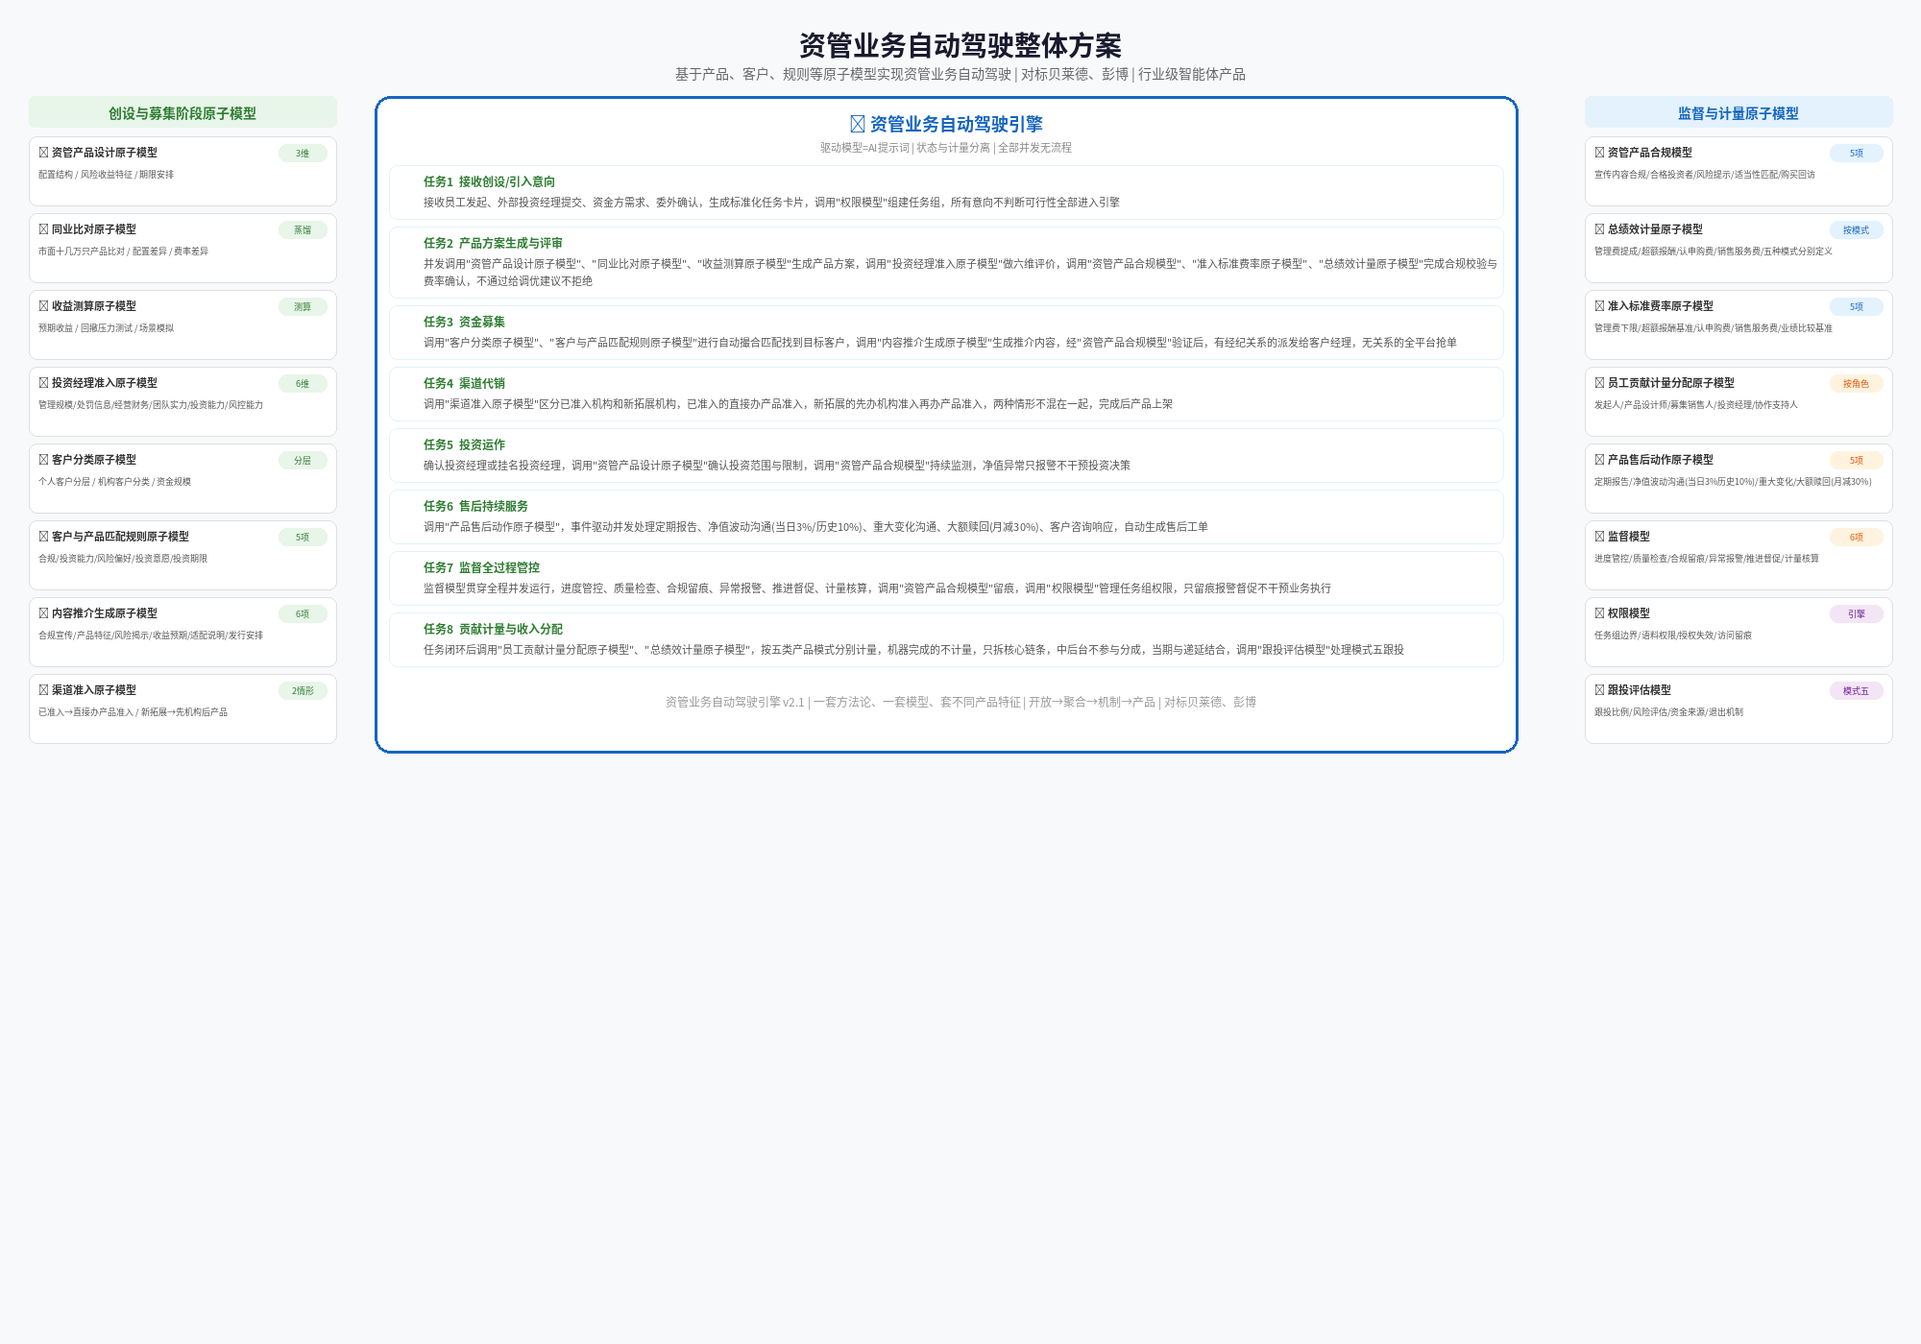
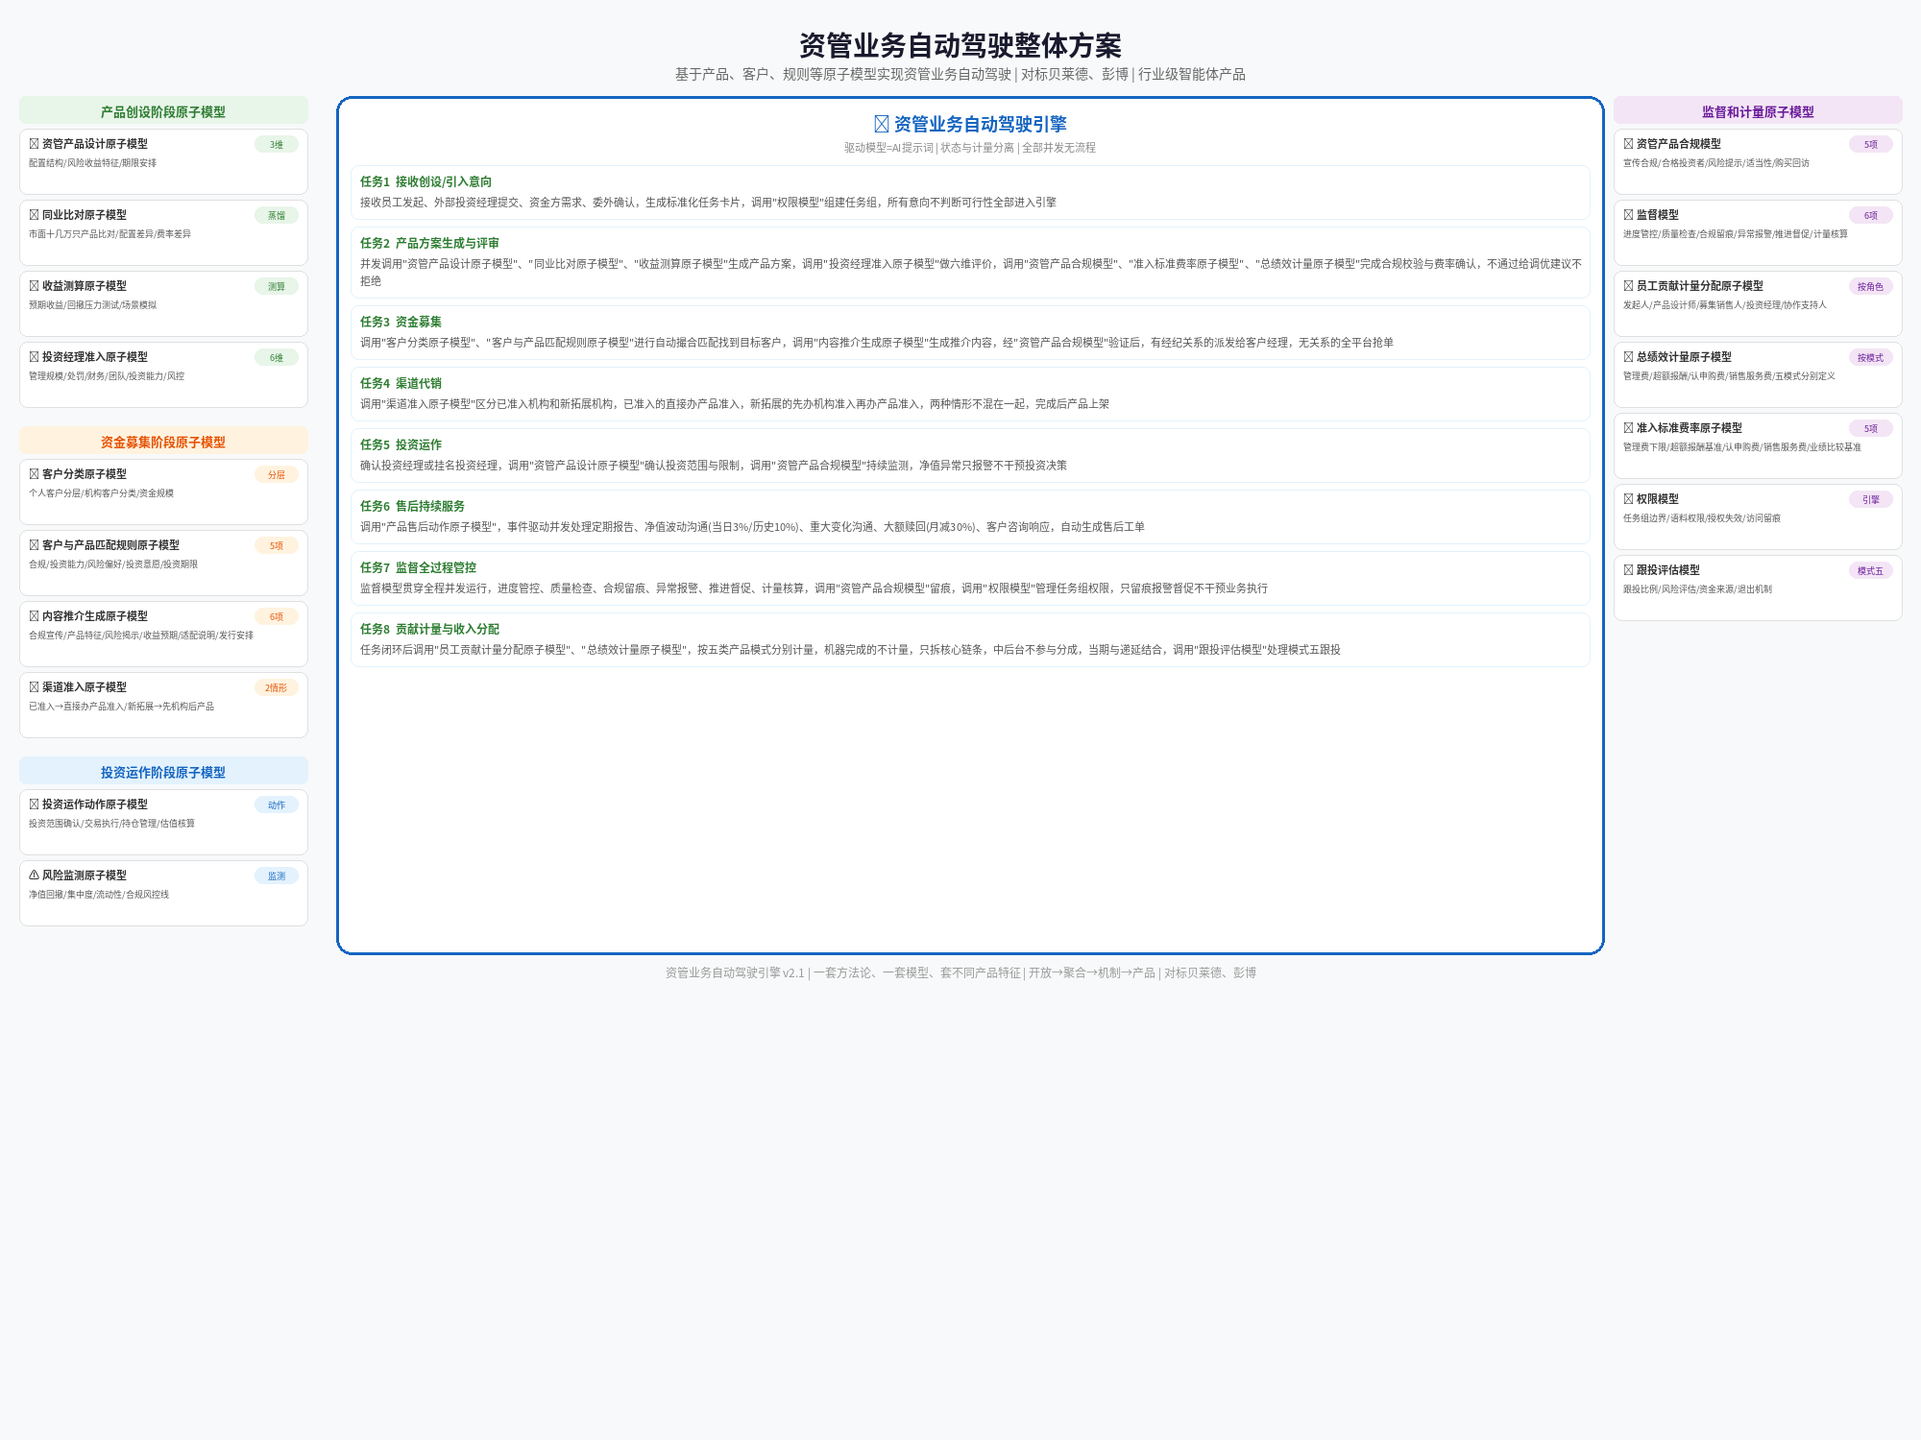
更新：资管方案架构图 - 左右原子模型按四大类分块（产品创设/资金募集/投资运作/监督计量）

diff --git a/diagrams/generate_asset_mgmt_diagram.py b/diagrams/generate_asset_mgmt_diagram.py
@@ -1,10 +1,10 @@
 #!/usr/bin/env python3
-"""生成资管业务自动驾驶整体方案图 v2 - 参考零售表达方式"""
+"""生成资管业务自动驾驶整体方案图 v3 - 按四大类分块"""
 
 from PIL import Image, ImageDraw, ImageFont
 import os
 
-W, H = 2000, 1400
+W, H = 2000, 1500
 img = Image.new('RGB', (W, H), '#f8f9fa')
 draw = ImageDraw.Draw(img)
 
@@ -28,10 +28,10 @@ COLORS = {
     'engine_bg': '#ffffff',
     'task_bg': '#ffffff',
     'task_border': '#e3f2fd',
-    'left_header_bg': '#e8f5e9',
-    'left_header_text': '#2e7d32',
-    'right_header_bg': '#e3f2fd',
-    'right_header_text': '#1565c0',
+    'sec1_bg': '#e8f5e9', 'sec1_text': '#2e7d32',
+    'sec2_bg': '#fff3e0', 'sec2_text': '#e65100',
+    'sec3_bg': '#e3f2fd', 'sec3_text': '#1565c0',
+    'sec4_bg': '#f3e5f5', 'sec4_text': '#6a1b9a',
     'model_bg': '#ffffff',
     'model_border': '#e0e0e0',
     'text_dark': '#333333',
@@ -40,7 +40,12 @@ COLORS = {
     'footer': '#999999',
 }
 
-CONN_COLORS = ['#2e7d32', '#1565c0', '#e65100', '#6a1b9a', '#c62828', '#00695c', '#283593', '#4e342e']
+SEC_STYLES = {
+    'sec1': ('#e8f5e9', '#2e7d32'),
+    'sec2': ('#fff3e0', '#e65100'),
+    'sec3': ('#e3f2fd', '#1565c0'),
+    'sec4': ('#f3e5f5', '#6a1b9a'),
+}
 
 def draw_rounded_rect(d, xy, radius, fill, outline=None, width=1):
     d.rounded_rectangle(xy, radius=radius, fill=fill, outline=outline, width=width)
@@ -54,7 +59,6 @@ def draw_text_left(d, x, y, text, font, fill):
     d.text((x, y), text, font=font, fill=fill)
 
 def wrap_text_by_width(draw, text, font, max_width):
-    """按像素宽度换行"""
     lines = []
     current = ''
     for char in text:
@@ -76,136 +80,130 @@ draw_text_centered(draw, W/2, 25, '资管业务自动驾驶整体方案', title_
 draw_text_centered(draw, W/2, 65, '基于产品、客户、规则等原子模型实现资管业务自动驾驶 | 对标贝莱德、彭博 | 行业级智能体产品', subtitle_font, COLORS['subtitle'])
 
 # ==================== 布局 ====================
-LEFT_X = 30
-LEFT_W = 320
-RIGHT_X = W - 30 - 320
-RIGHT_W = 320
-ENGINE_X = LEFT_X + LEFT_W + 40
-ENGINE_W = W - ENGINE_X - RIGHT_W - 100
+LEFT_X = 20
+LEFT_W = 300
+RIGHT_X = W - 20 - 300
+RIGHT_W = 300
+ENGINE_X = LEFT_X + LEFT_W + 30
+ENGINE_W = W - ENGINE_X - RIGHT_W - 30
 ENGINE_Y = 100
 
-# ==================== 左侧原子模型 ====================
-left_models = [
-    ('📐 资管产品设计原子模型', '3维', '配置结构 / 风险收益特征 / 期限安排', 'green'),
-    ('📊 同业比对原子模型', '蒸馏', '市面十几万只产品比对 / 配置差异 / 费率差异', 'green'),
-    ('🧮 收益测算原子模型', '测算', '预期收益 / 回撤压力测试 / 场景模拟', 'green'),
-    ('👤 投资经理准入原子模型', '6维', '管理规模/处罚信息/经营财务/团队实力/投资能力/风控能力', 'green'),
-    ('👥 客户分类原子模型', '分层', '个人客户分层 / 机构客户分类 / 资金规模', 'green'),
-    ('🎯 客户与产品匹配规则原子模型', '5项', '合规/投资能力/风险偏好/投资意愿/投资期限', 'green'),
-    ('📝 内容推介生成原子模型', '6项', '合规宣传/产品特征/风险揭示/收益预期/适配说明/发行安排', 'green'),
-    ('🏦 渠道准入原子模型', '2情形', '已准入→直接办产品准入 / 新拓展→先机构后产品', 'green'),
+# ==================== 四大类原子模型定义 ====================
+# 左侧：产品创设阶段 + 资金募集阶段（整合渠道代销）+ 投资运作阶段
+# 右侧：监督和计量
+
+sections_left = [
+    {
+        'title': '产品创设阶段原子模型',
+        'sec': 'sec1',
+        'models': [
+            ('📐 资管产品设计原子模型', '3维', '配置结构/风险收益特征/期限安排'),
+            ('📊 同业比对原子模型', '蒸馏', '市面十几万只产品比对/配置差异/费率差异'),
+            ('🧮 收益测算原子模型', '测算', '预期收益/回撤压力测试/场景模拟'),
+            ('👤 投资经理准入原子模型', '6维', '管理规模/处罚/财务/团队/投资能力/风控'),
+        ]
+    },
+    {
+        'title': '资金募集阶段原子模型',
+        'sec': 'sec2',
+        'models': [
+            ('👥 客户分类原子模型', '分层', '个人客户分层/机构客户分类/资金规模'),
+            ('🎯 客户与产品匹配规则原子模型', '5项', '合规/投资能力/风险偏好/投资意愿/投资期限'),
+            ('📝 内容推介生成原子模型', '6项', '合规宣传/产品特征/风险揭示/收益预期/适配说明/发行安排'),
+            ('🏦 渠道准入原子模型', '2情形', '已准入→直接办产品准入/新拓展→先机构后产品'),
+        ]
+    },
+    {
+        'title': '投资运作阶段原子模型',
+        'sec': 'sec3',
+        'models': [
+            ('📋 投资运作动作原子模型', '动作', '投资范围确认/交易执行/持仓管理/估值核算'),
+            ('⚠ 风险监测原子模型', '监测', '净值回撤/集中度/流动性/合规风控线'),
+        ]
+    },
 ]
 
-lh_font = get_font(14, bold=True)
-lh_rect = (LEFT_X, ENGINE_Y, LEFT_X + LEFT_W, ENGINE_Y + 32)
-draw_rounded_rect(draw, lh_rect, 6, COLORS['left_header_bg'])
-draw_text_centered(draw, LEFT_X + LEFT_W/2, ENGINE_Y + 6, '创设与募集阶段原子模型', lh_font, COLORS['left_header_text'])
+sections_right = [
+    {
+        'title': '监督和计量原子模型',
+        'sec': 'sec4',
+        'models': [
+            ('🛡 资管产品合规模型', '5项', '宣传合规/合格投资者/风险提示/适当性/购买回访'),
+            ('👁 监督模型', '6项', '进度管控/质量检查/合规留痕/异常报警/推进督促/计量核算'),
+            ('⚖ 员工贡献计量分配原子模型', '按角色', '发起人/产品设计师/募集销售人/投资经理/协作支持人'),
+            ('📈 总绩效计量原子模型', '按模式', '管理费/超额报酬/认申购费/销售服务费/五模式分别定义'),
+            ('💰 准入标准费率原子模型', '5项', '管理费下限/超额报酬基准/认申购费/销售服务费/业绩比较基准'),
+            ('🔑 权限模型', '引擎', '任务组边界/语料权限/授权失效/访问留痕'),
+            ('📋 跟投评估模型', '模式五', '跟投比例/风险评估/资金来源/退出机制'),
+        ]
+    },
+]
 
+# ==================== 渲染函数 ====================
+sec_header_font = get_font(13, bold=True)
 mc_font_title = get_font(11, bold=True)
 mc_font_tag = get_font(9)
 mc_font_content = get_font(9)
-mc_y = ENGINE_Y + 42
-mc_h = 72
-mc_gap = 8
+mc_h = 68
+mc_gap = 6
+sec_gap = 14
 
-left_card_positions = []
-for title, tag, content, color in left_models:
-    rect = (LEFT_X, mc_y, LEFT_X + LEFT_W, mc_y + mc_h)
-    draw_rounded_rect(draw, rect, 8, COLORS['model_bg'], COLORS['model_border'], 1)
-    draw_text_left(draw, LEFT_X + 10, mc_y + 8, title, mc_font_title, COLORS['text_dark'])
+def render_sections(sections, x, w):
+    y = ENGINE_Y
+    card_positions = []
+    for section in sections:
+        bg, text_color = SEC_STYLES[section['sec']]
+        # 分块标题
+        hdr_rect = (x, y, x + w, y + 28)
+        draw_rounded_rect(draw, hdr_rect, 6, bg)
+        draw_text_centered(draw, x + w/2, y + 5, section['title'], sec_header_font, text_color)
+        y += 34
+        
+        # 模型卡片
+        for title, tag, content in section['models']:
+            rect = (x, y, x + w, y + mc_h)
+            draw_rounded_rect(draw, rect, 8, COLORS['model_bg'], COLORS['model_border'], 1)
+            draw_text_left(draw, x + 10, y + 7, title, mc_font_title, COLORS['text_dark'])
+            
+            tag_rect = (x + w - 55, y + 7, x + w - 10, y + 24)
+            draw_rounded_rect(draw, tag_rect, 8, bg)
+            bbox = draw.textbbox((0,0), tag, font=mc_font_tag)
+            tw = bbox[2]-bbox[0]
+            draw_text_left(draw, x + w - 10 - tw - (45-tw)/2, y + 9, tag, mc_font_tag, text_color)
+            
+            lines = wrap_text_by_width(draw, content, mc_font_content, w - 20)
+            for i, line in enumerate(lines[:3]):
+                draw_text_left(draw, x + 10, y + 28 + i*14, line, mc_font_content, COLORS['text_mid'])
+            
+            card_positions.append((x + w if x < W/2 else x, y + mc_h/2))
+            y += mc_h + mc_gap
+        
+        y += sec_gap
     
-    tag_rect = (LEFT_X + LEFT_W - 60, mc_y + 8, LEFT_X + LEFT_W - 10, mc_y + 26)
-    draw_rounded_rect(draw, tag_rect, 8, COLORS['left_header_bg'])
-    bbox = draw.textbbox((0,0), tag, font=mc_font_tag)
-    tw = bbox[2]-bbox[0]
-    draw_text_left(draw, LEFT_X + LEFT_W - 10 - tw - (50-tw)/2, mc_y + 10, tag, mc_font_tag, COLORS['left_header_text'])
-    
-    lines = []
-    current = ''
-    for char in content:
-        test = current + char
-        bbox = draw.textbbox((0, 0), test, font=mc_font_content)
-        if bbox[2] - bbox[0] > LEFT_W - 20 and current:
-            lines.append(current)
-            current = char
-        else:
-            current = test
-    if current:
-        lines.append(current)
-    for i, line in enumerate(lines[:3]):
-        draw_text_left(draw, LEFT_X + 10, mc_y + 32 + i*16, line, mc_font_content, COLORS['text_mid'])
-    
-    left_card_positions.append((LEFT_X + LEFT_W, mc_y + mc_h/2))
-    mc_y += mc_h + mc_gap
+    return y, card_positions
 
-# ==================== 右侧原子模型 ====================
-right_models = [
-    ('🛡 资管产品合规模型', '5项', '宣传内容合规/合格投资者/风险提示/适当性匹配/购买回访', 'blue'),
-    ('📈 总绩效计量原子模型', '按模式', '管理费提成/超额报酬/认申购费/销售服务费/五种模式分别定义', 'blue'),
-    ('💰 准入标准费率原子模型', '5项', '管理费下限/超额报酬基准/认申购费/销售服务费/业绩比较基准', 'blue'),
-    ('⚖ 员工贡献计量分配原子模型', '按角色', '发起人/产品设计师/募集销售人/投资经理/协作支持人', 'orange'),
-    ('🔧 产品售后动作原子模型', '5项', '定期报告/净值波动沟通(当日3%历史10%)/重大变化/大额赎回(月减30%)', 'orange'),
-    ('👁 监督模型', '6项', '进度管控/质量检查/合规留痕/异常报警/推进督促/计量核算', 'orange'),
-    ('🔑 权限模型', '引擎', '任务组边界/语料权限/授权失效/访问留痕', 'purple'),
-    ('📋 跟投评估模型', '模式五', '跟投比例/风险评估/资金来源/退出机制', 'purple'),
-]
+# 渲染左侧
+left_end_y, left_card_positions = render_sections(sections_left, LEFT_X, LEFT_W)
 
-rh_rect = (RIGHT_X, ENGINE_Y, RIGHT_X + RIGHT_W, ENGINE_Y + 32)
-draw_rounded_rect(draw, rh_rect, 6, COLORS['right_header_bg'])
-draw_text_centered(draw, RIGHT_X + RIGHT_W/2, ENGINE_Y + 6, '监督与计量原子模型', lh_font, COLORS['right_header_text'])
+# 渲染右侧
+right_end_y, right_card_positions = render_sections(sections_right, RIGHT_X, RIGHT_W)
 
-mc_y = ENGINE_Y + 42
-right_card_positions = []
-for title, tag, content, color in right_models:
-    rect = (RIGHT_X, mc_y, RIGHT_X + RIGHT_W, mc_y + mc_h)
-    draw_rounded_rect(draw, rect, 8, COLORS['model_bg'], COLORS['model_border'], 1)
-    draw_text_left(draw, RIGHT_X + 10, mc_y + 8, title, mc_font_title, COLORS['text_dark'])
-    
-    tag_colors = {
-        'blue': ('#e3f2fd', '#1565c0'),
-        'orange': ('#fff3e0', '#e65100'),
-        'purple': ('#f3e5f5', '#6a1b9a'),
-    }
-    tag_bg, tag_text_color = tag_colors.get(color, ('#e3f2fd', '#1565c0'))
-    tag_rect = (RIGHT_X + RIGHT_W - 65, mc_y + 8, RIGHT_X + RIGHT_W - 10, mc_y + 26)
-    draw_rounded_rect(draw, tag_rect, 8, tag_bg)
-    bbox = draw.textbbox((0,0), tag, font=mc_font_tag)
-    tw = bbox[2]-bbox[0]
-    draw_text_left(draw, RIGHT_X + RIGHT_W - 10 - tw - (55-tw)/2, mc_y + 10, tag, mc_font_tag, tag_text_color)
-    
-    lines = []
-    current = ''
-    for char in content:
-        test = current + char
-        bbox = draw.textbbox((0, 0), test, font=mc_font_content)
-        if bbox[2] - bbox[0] > RIGHT_W - 20 and current:
-            lines.append(current)
-            current = char
-        else:
-            current = test
-    if current:
-        lines.append(current)
-    for i, line in enumerate(lines[:3]):
-        draw_text_left(draw, RIGHT_X + 10, mc_y + 32 + i*16, line, mc_font_content, COLORS['text_mid'])
-    
-    right_card_positions.append((RIGHT_X, mc_y + mc_h/2))
-    mc_y += mc_h + mc_gap
+# 取最大高度
+max_side_y = max(left_end_y, right_end_y)
 
 # ==================== 中间引擎 ====================
 eng_title_font = get_font(18, bold=True)
 eng_sub_font = get_font(11)
-task_num_font = get_font(11, bold=True)
 task_text_font = get_font(11)
 task_label_font = get_font(12, bold=True)
 
-eng_rect = (ENGINE_X, ENGINE_Y, ENGINE_X + ENGINE_W, mc_y - mc_gap + 10)
+eng_rect = (ENGINE_X, ENGINE_Y, ENGINE_X + ENGINE_W, max_side_y + 10)
 draw_rounded_rect(draw, eng_rect, 16, COLORS['engine_bg'], COLORS['engine_border'], 3)
 
 eng_cx = ENGINE_X + ENGINE_W / 2
 draw_text_centered(draw, eng_cx, ENGINE_Y + 15, '🚗 资管业务自动驾驶引擎', eng_title_font, COLORS['engine_border'])
 draw_text_centered(draw, eng_cx, ENGINE_Y + 45, '驱动模型=AI提示词 | 状态与计量分离 | 全部并发无流程', eng_sub_font, COLORS['text_light'])
 
-# 任务列表 - 参考零售表达方式：任务N + 自然语言调度指令
 tasks = [
     ('1', '接收创设/引入意向',
      '接收员工发起、外部投资经理提交、资金方需求、委外确认，生成标准化任务卡片，调用"权限模型"组建任务组，所有意向不判断可行性全部进入引擎'),
@@ -226,86 +224,35 @@ tasks = [
 ]
 
 task_y = ENGINE_Y + 72
-task_num_size = 24
 task_left_pad = 15
-text_left_pad = task_left_pad + task_num_size + 12
-
-task_positions = []
+text_left_pad = task_left_pad + 10
 
 for idx, (num, theme, body) in enumerate(tasks):
     label = f'任务{num}'
-    
-    # 计算文本行数确定高度
     max_text_w = ENGINE_W - text_left_pad - 20
-    
-    # 主题行
     theme_text = f'{label}  {theme}'
     theme_lines = wrap_text_by_width(draw, theme_text, task_label_font, max_text_w)
-    
-    # 正文行
     body_lines = wrap_text_by_width(draw, body, task_text_font, max_text_w)
-    
     task_h = max(52, len(theme_lines)*20 + len(body_lines)*18 + 18)
     
     t_rect = (ENGINE_X + task_left_pad, task_y, ENGINE_X + ENGINE_W - task_left_pad, task_y + task_h)
     draw_rounded_rect(draw, t_rect, 8, COLORS['task_bg'], COLORS['task_border'], 1)
     
-    # 主题行 - 绿色加粗
     for i, line in enumerate(theme_lines):
         draw_text_left(draw, ENGINE_X + text_left_pad, task_y + 8 + i*20, line, task_label_font, '#2e7d32')
     
-    # 正文
     body_start = task_y + 8 + len(theme_lines)*20 + 2
     for i, line in enumerate(body_lines):
         draw_text_left(draw, ENGINE_X + text_left_pad, body_start + i*18, line, task_text_font, COLORS['text_mid'])
     
-    task_positions.append((ENGINE_X + task_left_pad, task_y + task_h/2, ENGINE_X + ENGINE_W - task_left_pad, idx))
     task_y += task_h + 8
-
-# ==================== 连接线 ====================
-# 连接线已移除（用户要求）
-left_conn = []
-right_conn = []
-
-for model_idx, task_idx in left_conn:
-    lx, ly = left_card_positions[model_idx]
-    tx, ty, _, _ = task_positions[task_idx]
-    color = CONN_COLORS[task_idx % len(CONN_COLORS)]
-    mid_x = (lx + tx) / 2
-    points = []
-    for t in range(0, 21):
-        t = t / 20
-        cx1, cy1 = mid_x, ly
-        cx2, cy2 = mid_x, ty
-        x = (1-t)**3 * lx + 3*(1-t)**2*t*cx1 + 3*(1-t)*t**2*cx2 + t**3*tx
-        y = (1-t)**3 * ly + 3*(1-t)**2*t*cy1 + 3*(1-t)*t**2*cy2 + t**3*ty
-        points.append((x, y))
-    for i in range(len(points)-1):
-        draw.line([points[i], points[i+1]], fill=color, width=1)
-
-for model_idx, task_idx in right_conn:
-    rx, ry = right_card_positions[model_idx]
-    _, _, tx, _ = task_positions[task_idx]  # 取任务卡片右边缘
-    ty = task_positions[task_idx][1]        # 任务中心Y
-    color = CONN_COLORS[task_idx % len(CONN_COLORS)]
-    mid_x = (rx + tx) / 2
-    points = []
-    for t in range(0, 21):
-        t = t / 20
-        cx1, cy1 = mid_x, ry
-        cx2, cy2 = mid_x, ty
-        x = (1-t)**3 * tx + 3*(1-t)**2*t*cx1 + 3*(1-t)*t**2*cx2 + t**3*rx
-        y = (1-t)**3 * ty + 3*(1-t)**2*t*cy1 + 3*(1-t)*t**2*cy2 + t**3*ry
-        points.append((x, y))
-    for i in range(len(points)-1):
-        draw.line([points[i], points[i+1]], fill=color, width=1)
 
 # ==================== 底部说明 ====================
 footer_font = get_font(12)
 footer_text = '资管业务自动驾驶引擎 v2.1 | 一套方法论、一套模型、套不同产品特征 | 开放→聚合→机制→产品 | 对标贝莱德、彭博'
-draw_text_centered(draw, W/2, task_y + 20, footer_text, footer_font, COLORS['footer'])
+draw_text_centered(draw, W/2, max(task_y, max_side_y) + 20, footer_text, footer_font, COLORS['footer'])
 
 # 保存
 output_path = '/root/.openclaw/workspace/diagrams/资管业务自动驾驶整体方案-v2.png'
 img.save(output_path, 'PNG', dpi=(150, 150))
-print(f'OK: {output_path}, size: {W}x{H}')
+print(f'OK: {output_path}, size: {W}x{max(H, max(task_y, max_side_y) + 60)}')
